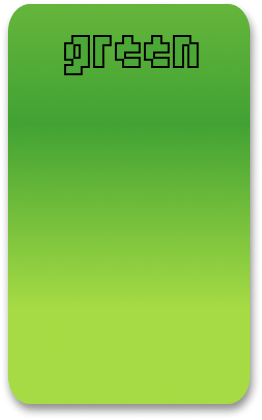
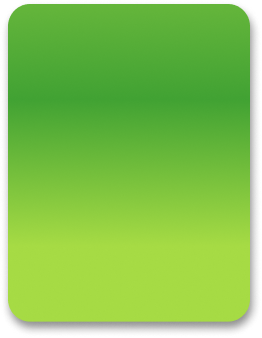
Fix berry scoring triggers

diff --git a/src/index.ts b/src/index.ts
@@ -11,7 +11,9 @@ import {
   InputModifier,
   VirtualCamera,
   MainCamera,
-  Name
+  Name,
+  TriggerArea,
+  triggerAreaEventsSystem
 } from '@dcl/sdk/ecs'
 import { Quaternion, Vector3 } from '@dcl/sdk/math'
 import { getPlayerPosition } from '@dcl-sdk/utils'
@@ -60,8 +62,9 @@ const STRAWBERRY_CENTER_OFFSET = Vector3.create(9.977967, 0.118668, -3.692565)
 const BLUEBERRY_CENTER_OFFSET = Vector3.create(13.098664, -2.31526, -2.112536)
 const BERRY_HALF_EXTENTS = Vector3.create(1.2063, 1.6856, 0.8195)
 const PLAYER_TOUCH_HEIGHT = 1.9
-const BERRY_TOUCH_AVATAR_RADIUS = 0.45
-const BERRY_TOUCH_VERTICAL_PADDING = 0.2
+const BERRY_TOUCH_AVATAR_RADIUS = 2.25
+const BERRY_TOUCH_VERTICAL_PADDING = 4
+const BERRY_TRIGGER_EXTRA_RADIUS = 1.5
 
 // Lobby spawn position — center of parcel, just inside
 const LOBBY_X = 8,
@@ -73,13 +76,18 @@ const STRAWBERRY_NAMES = [
   'STRAWBERRY.glb_2',
   'STRAWBERRY.glb_3',
   'STRAWBERRY.glb_4',
-  'STRAWBERRY.glb_5'
+  'STRAWBERRY.glb_5',
+  'STRAWBERRY.glb_6',
+  'STRAWBERRY.glb_7'
 ]
 const GUMDROP_FALL_DURATION = 0.45
+const GUMDROP_FALL_DELAY = 2
 const GUMDROP_FALL_DISTANCE = 3.2
 const GUMDROP_RESPAWN_DELAY = 3
-const GUMDROP_TOUCH_Y_BELOW = 1.2
-const GUMDROP_TOUCH_Y_ABOVE = 1.8
+const GUMDROP_TOUCH_RADIUS_PADDING = 1.75
+const GUMDROP_TOUCH_Y_BELOW = 2.5
+const GUMDROP_TOUCH_Y_ABOVE = 4
+const GUMDROP_TRIGGER_HEIGHT = GUMDROP_TOUCH_Y_BELOW + GUMDROP_TOUCH_Y_ABOVE
 
 // ── Types ─────────────────────────────────────────────────────────────────────
 type Team = 'red' | 'blue'
@@ -99,6 +107,7 @@ type BerrySpot = {
   y: number
   z: number
   baseScale: { x: number; y: number; z: number }
+  triggerEntity: Entity
   red: TeamSlot
   blue: TeamSlot
 }
@@ -114,7 +123,9 @@ type GumdropSpot = {
   startPosition: { x: number; y: number; z: number }
   scale: { x: number; y: number; z: number }
   profile: GumdropProfile
-  state: 'ready' | 'falling' | 'hidden'
+  triggerEntity: Entity
+  state: 'ready' | 'armed' | 'falling' | 'hidden'
+  delayTimer: number
   fallTimer: number
   respawnTimer: number
 }
@@ -399,19 +410,63 @@ function getActiveBerryHalfExtents(spot: BerrySpot) {
 }
 
 function isPlayerTouchingBerry(pos: { x: number; y: number; z: number }, spot: BerrySpot) {
-  const center = getBerryVisualCenter(spot)
+  const visualCenter = getBerryVisualCenter(spot)
+  const originCenter = Vector3.create(spot.x, spot.y, spot.z)
   const half = getActiveBerryHalfExtents(spot)
   const horizontalRadius = Math.max(half.x, half.z) + BERRY_TOUCH_AVATAR_RADIUS
-  const dx = pos.x - center.x
-  const dz = pos.z - center.z
-  if (dx * dx + dz * dz > horizontalRadius * horizontalRadius) return false
+  const touchesHorizontal = [visualCenter, originCenter].some((center) => {
+    const dx = pos.x - center.x
+    const dz = pos.z - center.z
+    return dx * dx + dz * dz <= horizontalRadius * horizontalRadius
+  })
+  if (!touchesHorizontal) return false
 
   const playerBottom = pos.y
   const playerTop = pos.y + PLAYER_TOUCH_HEIGHT
-  const berryBottom = center.y - half.y
-  const berryTop = center.y + half.y
+  const berryBottom = Math.min(visualCenter.y, originCenter.y) - half.y
+  const berryTop = Math.max(visualCenter.y, originCenter.y) + half.y
 
   return playerTop >= berryBottom - BERRY_TOUCH_VERTICAL_PADDING && playerBottom <= berryTop + BERRY_TOUCH_VERTICAL_PADDING
+}
+
+function getBerryTriggerTransform(spot: BerrySpot) {
+  const visualCenter = getBerryVisualCenter(spot)
+  const originCenter = Vector3.create(spot.x, spot.y, spot.z)
+  const half = getActiveBerryHalfExtents(spot)
+  const radius = Math.max(half.x, half.z) + BERRY_TOUCH_AVATAR_RADIUS + BERRY_TRIGGER_EXTRA_RADIUS
+  const minX = Math.min(visualCenter.x, originCenter.x) - radius
+  const maxX = Math.max(visualCenter.x, originCenter.x) + radius
+  const minY = Math.min(visualCenter.y, originCenter.y) - half.y - BERRY_TOUCH_VERTICAL_PADDING
+  const maxY = Math.max(visualCenter.y, originCenter.y) + half.y + BERRY_TOUCH_VERTICAL_PADDING
+  const minZ = Math.min(visualCenter.z, originCenter.z) - radius
+  const maxZ = Math.max(visualCenter.z, originCenter.z) + radius
+
+  return {
+    position: Vector3.create((minX + maxX) / 2, (minY + maxY) / 2, (minZ + maxZ) / 2),
+    scale: Vector3.create(maxX - minX, maxY - minY, maxZ - minZ)
+  }
+}
+
+function tryCollectBerry(spot: BerrySpot) {
+  if (gameMode === 'solo') {
+    collectSolo(spot)
+    return
+  }
+
+  if (gameMode === 'team' && localTeam) {
+    collectTeam(spot, localTeam, Date.now() + hostClockOffset)
+  }
+}
+
+function createBerryTrigger(spot: BerrySpot) {
+  Transform.create(spot.triggerEntity, getBerryTriggerTransform(spot))
+  TriggerArea.setBox(spot.triggerEntity, ColliderLayer.CL_PLAYER)
+  triggerAreaEventsSystem.onTriggerEnter(spot.triggerEntity, () => tryCollectBerry(spot))
+  triggerAreaEventsSystem.onTriggerStay(spot.triggerEntity, () => tryCollectBerry(spot))
+}
+
+function updateBerryTrigger(spot: BerrySpot) {
+  Transform.createOrReplace(spot.triggerEntity, getBerryTriggerTransform(spot))
 }
 
 function setModelCollision(entity: Entity, enabled: boolean, keepPointer = false) {
@@ -432,6 +487,9 @@ function setModelCollision(entity: Entity, enabled: boolean, keepPointer = false
 }
 
 function isBerryEntity(entity: Entity) {
+  if (GltfContainer.getOrNull(entity)?.src === STRAWBERRY_SRC || GltfContainer.getOrNull(entity)?.src === BLUEBERRY_SRC) {
+    return true
+  }
   for (const s of spots) {
     if (s.red.entity === entity) return true
   }
@@ -450,9 +508,14 @@ function enableSceneModelColliders() {
 }
 
 function getGumdropProfile(src: string, entityName = ''): GumdropProfile | null {
-  const identifier = `${src} ${entityName}`.toLowerCase()
+  const srcIdentifier = src.toLowerCase()
   for (const entry of GUMDROP_PROFILES) {
-    if (identifier.includes(entry.srcPart)) return entry.profile
+    if (srcIdentifier.includes(entry.srcPart)) return entry.profile
+  }
+
+  const nameIdentifier = entityName.toLowerCase()
+  for (const entry of GUMDROP_PROFILES) {
+    if (nameIdentifier.includes(entry.srcPart)) return entry.profile
   }
   return null
 }
@@ -477,7 +540,7 @@ function getGumdropTopY(gumdrop: GumdropSpot) {
 
 function isPlayerTouchingGumdrop(pos: { x: number; y: number; z: number }, gumdrop: GumdropSpot) {
   const center = getGumdropCenter(gumdrop)
-  const radius = gumdrop.profile.radius * Math.max(gumdrop.scale.x, gumdrop.scale.z)
+  const radius = gumdrop.profile.radius * Math.max(gumdrop.scale.x, gumdrop.scale.z) + GUMDROP_TOUCH_RADIUS_PADDING
   const dx = pos.x - center.x
   const dz = pos.z - center.z
   const topY = getGumdropTopY(gumdrop)
@@ -489,11 +552,39 @@ function isPlayerTouchingGumdrop(pos: { x: number; y: number; z: number }, gumdr
   )
 }
 
+function getGumdropTriggerTransform(gumdrop: GumdropSpot) {
+  const center = getGumdropCenter(gumdrop)
+  const radius = gumdrop.profile.radius * Math.max(gumdrop.scale.x, gumdrop.scale.z) + GUMDROP_TOUCH_RADIUS_PADDING
+  const topY = getGumdropTopY(gumdrop)
+  return {
+    position: Vector3.create(center.x, topY + (GUMDROP_TOUCH_Y_ABOVE - GUMDROP_TOUCH_Y_BELOW) / 2, center.z),
+    scale: Vector3.create(radius * 2, GUMDROP_TRIGGER_HEIGHT, radius * 2)
+  }
+}
+
 function triggerGumdrop(gumdrop: GumdropSpot) {
+  gumdrop.state = 'armed'
+  gumdrop.delayTimer = GUMDROP_FALL_DELAY
+  gumdrop.fallTimer = 0
+}
+
+function startGumdropFall(gumdrop: GumdropSpot) {
   gumdrop.state = 'falling'
   gumdrop.fallTimer = 0
   gumdrop.respawnTimer = GUMDROP_RESPAWN_DELAY
   setModelCollision(gumdrop.entity, false)
+}
+
+function createGumdropTrigger(gumdrop: GumdropSpot) {
+  const triggerTransform = getGumdropTriggerTransform(gumdrop)
+  Transform.create(gumdrop.triggerEntity, triggerTransform)
+  TriggerArea.setBox(gumdrop.triggerEntity, ColliderLayer.CL_PLAYER)
+  triggerAreaEventsSystem.onTriggerEnter(gumdrop.triggerEntity, () => {
+    if (gumdrop.state === 'ready') triggerGumdrop(gumdrop)
+  })
+  triggerAreaEventsSystem.onTriggerStay(gumdrop.triggerEntity, () => {
+    if (gumdrop.state === 'ready') triggerGumdrop(gumdrop)
+  })
 }
 
 function resetGumdrop(gumdrop: GumdropSpot) {
@@ -502,6 +593,7 @@ function resetGumdrop(gumdrop: GumdropSpot) {
   VisibilityComponent.createOrReplace(gumdrop.entity, { visible: true })
   setModelCollision(gumdrop.entity, true)
   gumdrop.state = 'ready'
+  gumdrop.delayTimer = 0
   gumdrop.fallTimer = 0
   gumdrop.respawnTimer = 0
 }
@@ -512,6 +604,12 @@ function updateGumdrops(dt: number, pos: { x: number; y: number; z: number }) {
 
     if (gumdrop.state === 'ready') {
       if (isPlayerTouchingGumdrop(pos, gumdrop)) triggerGumdrop(gumdrop)
+      continue
+    }
+
+    if (gumdrop.state === 'armed') {
+      gumdrop.delayTimer = Math.max(0, gumdrop.delayTimer - dt)
+      if (gumdrop.delayTimer <= 0) startGumdropFall(gumdrop)
       continue
     }
 
@@ -1088,14 +1186,11 @@ export function main() {
 
   // ── Lazy Spots Initializer ──────────────────────────────────────────────────
   let spotsInitialized = false
+  let loggedBerryCount = 0
   let loggedGumdropCount = 0
 
   function ensureSpotsInitialized() {
     if (spotsInitialized) return
-    if (spots.length > 0) {
-      spotsInitialized = true
-      return
-    }
 
     for (const name of STRAWBERRY_NAMES) {
       const redEntity = engine.getEntityOrNullByName(name)
@@ -1106,6 +1201,8 @@ export function main() {
       if (!GltfContainer.has(redEntity) || !Transform.has(redEntity)) {
         continue
       }
+
+      if (spots.some((spot) => spot.red.entity === redEntity)) continue
 
       const gltf = GltfContainer.getMutable(redEntity)
       gltf.visibleMeshesCollisionMask = ColliderLayer.CL_POINTER
@@ -1124,14 +1221,21 @@ export function main() {
         y: by,
         z: bz,
         baseScale: bScale,
+        triggerEntity: engine.addEntity(),
         red: { entity: redEntity, collected: false, wasInside: false, respawnTimer: 0, stateEntity: null },
         blue: { entity: redEntity, collected: false, wasInside: false, respawnTimer: 0, stateEntity: null }
       })
+      createBerryTrigger(spots[spots.length - 1])
     }
 
-    if (spots.length > 0) {
+    if (spots.length > loggedBerryCount) {
+      loggedBerryCount = spots.length
+      console.log('[Candy Rush] Initialized', spots.length, 'berry spots')
+    }
+
+    if (spots.length >= STRAWBERRY_NAMES.length) {
       spotsInitialized = true
-      console.log('[Candy Rush] Successfully lazily initialized', spots.length, 'berry spots!')
+      console.log('[Candy Rush] Successfully initialized all', spots.length, 'berry spots!')
     }
   }
 
@@ -1148,10 +1252,13 @@ export function main() {
         startPosition: Vector3.create(transform.position.x, transform.position.y, transform.position.z),
         scale: Vector3.create(transform.scale.x, transform.scale.y, transform.scale.z),
         profile,
+        triggerEntity: engine.addEntity(),
         state: 'ready',
+        delayTimer: 0,
         fallTimer: 0,
         respawnTimer: 0
       })
+      createGumdropTrigger(gumdrops[gumdrops.length - 1])
 
       VisibilityComponent.createOrReplace(entity, { visible: true })
       setModelCollision(entity, true)
@@ -1189,6 +1296,7 @@ export function main() {
 
     for (const s of spots) {
       updateBerryRepresentation(s)
+      updateBerryTrigger(s)
     }
 
     tickUi(dt)

diff --git a/assets/scene/entity-names.ts b/assets/scene/entity-names.ts
@@ -20,7 +20,6 @@ export enum EntityNames {
   gumdrop_5_glb = "gumdrop-5.glb",
   gumdrop_6_glb = "gumdrop-6.glb",
   gumdrop_7_glb = "gumdrop-7.glb",
-  gumdrop_8_glb = "gumdrop-8.glb",
   gumdrop_9_glb = "gumdrop-9.glb",
   jello_glb = "jello.glb",
   jellpiece_glb = "jellpiece.glb",
@@ -32,5 +31,6 @@ export enum EntityNames {
   ring2_glb = "ring2.glb",
   ring2_glb_2 = "ring2.glb_2",
   ring3_glb = "ring3.glb",
+  snakes_glb = "snakes.glb",
   stripes_glb = "stripes.glb",
 } 